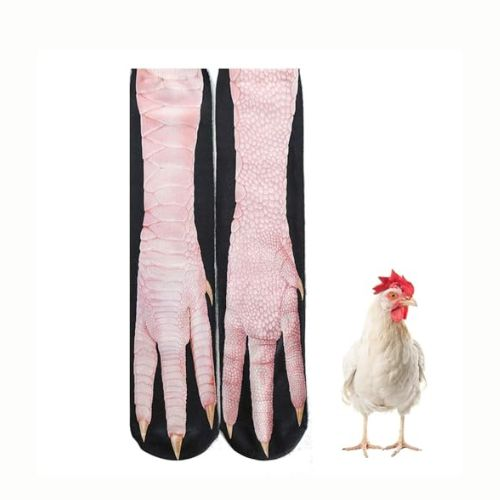
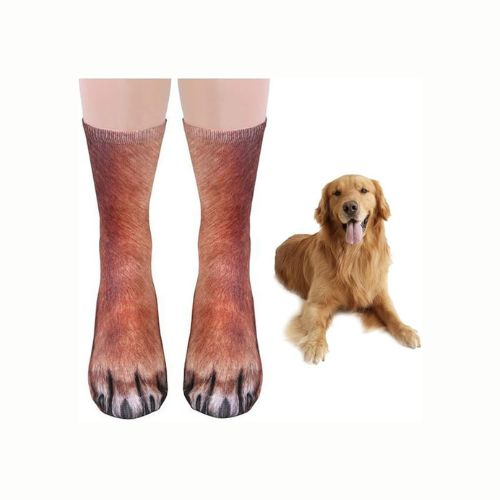
swapped a gift

diff --git a/src/config/gameData.js b/src/config/gameData.js
@@ -43,7 +43,7 @@ export const giftsData = [
   { id: 3,name: "Winter Gloves", link: "https://a.co/d/gS0pO7s", imageFile: "gift3.jpg" },
   { id: 4, name: "Rechargeable Hand Warmers",link: "https://www.amazon.com/Magnetic-Rechargeable-Settings-Certified-Essentials/dp/B0FJFW9MP7/",imageFile: "gift4.jpg" },
   { id: 5, name: "Electric Mug Warmer", link: "https://www.amazon.com/Coffee-Electric-Aluminum-Beverage-Valetines/dp/B0CCTPNZD4", imageFile: "gift5.jpg" },
-  { id: 6, name: "Chicken Socks", link: "https://www.amazon.com/Qeokfgl-Stocking-Stuffers-Elephant-Christmas/dp/B0DJ2F119Q/?th=1&psc=1", imageFile: "gift6.jpg" },
+  { id: 6, name: "Puppy Paw Socks", link: "https://www.amazon.com/dp/B08C6Y4QND?_encoding=UTF8&ref=cm_sw_r_cp_ud_dp_C4TZD1CM876CNHPEB4QC&ref_=cm_sw_r_cp_ud_dp_C4TZD1CM876CNHPEB4QC&social_share=cm_sw_r_cp_ud_dp_C4TZD1CM876CNHPEB4QC&th=1&psc=1", imageFile: "gift6.jpg" },
   { id: 7, name: "Camping Cookware Kit", link: "https://www.amazon.com/dp/B0B7MNF8YJ?ref=cm_sw_r_cp_ud_dp_RQZF9P3G5F3YZMJYXGB3&ref_=cm_sw_r_cp_ud_dp_RQZF9P3G5F3YZMJYXGB3&social_share=cm_sw_r_cp_ud_dp_RQZF9P3G5F3YZMJYXGB3", imageFile: "gift7.jpg" },
   { id: 8, name: "Drift Car Air Freshener", link: "https://a.co/d/etiNgUe", imageFile: "gift8.jpg" },
   { id: 9, name: "Movie Night Popcorn Kit", link: "https://a.co/d/a57XKb3", imageFile: "gift9.jpg" },
